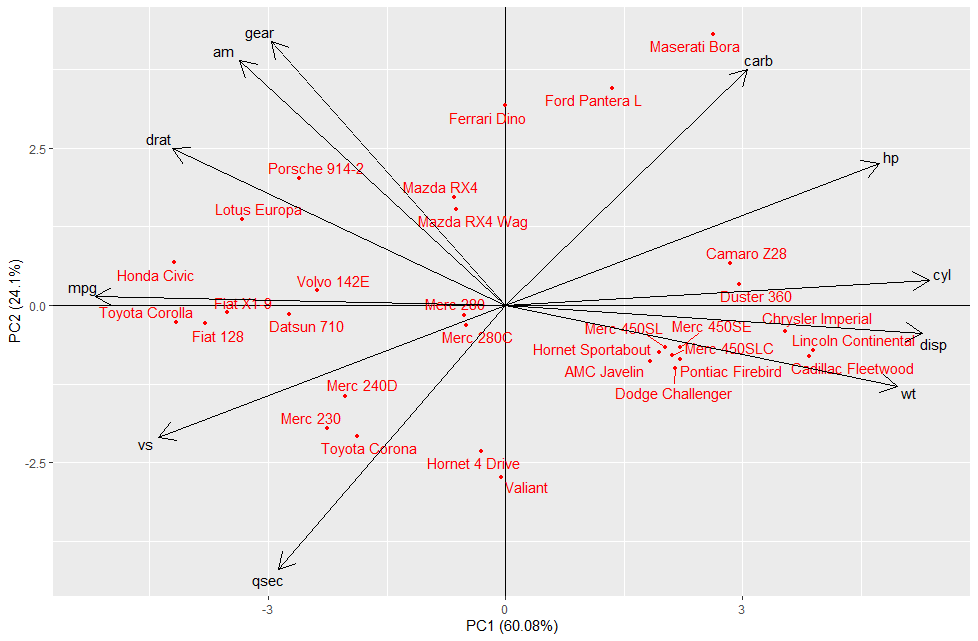
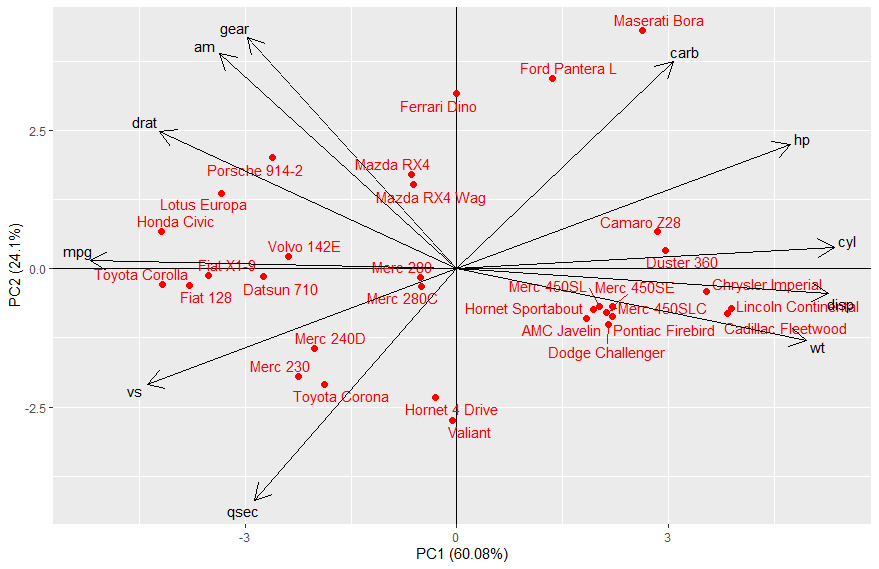
Add new parameter for Plot_Biplot

diff --git a/README.md b/README.md
@@ -54,7 +54,8 @@ devtools::install_github("mitzicubillamontilla/SparseBiplots")
 * `color`: points colors. It can be a character indicating the color of all the points or a factor to use different colors.
 * `shape`: points shapes. It can be a number to indicate the shape of all the points or a factor to indicate different shapes.
 * `size`: numeric value indicating the size of points.
-* `ind.name`: logical name indicating if prints the row names. 
+* `ind.label`: logical name indicating if prints the row names. 
+* `ind.label.size`: numeric value indicating the size of the label of points.
 * `arrow.col`: color of the arrows. 
 * `vec.name`: logical name indicating if prints the column names. 
 * `angle.vec`: logical name indicating if print the vector names with orentation of the angle of the vector. 
@@ -69,7 +70,7 @@ hj.biplot <- HJBiplot(mtcars, Transform.Data = 'scale')
 It fit the HJ-Biplot on the R data `mtcars` returning a list that contains the results of the fiting (`hj_mtcars`). To create the plot use the function `Plot_Biplot` over the list obtained. 
 
 ```R
-Plot_Biplot(hj.biplot, ind.name = TRUE)
+Plot_Biplot(hj.biplot, ind.label = TRUE)
 ```
 <img src="https://github.com/mitzicubillamontilla/SparseBiplots/blob/master/plots/HJBiplot_example.png" width="750">
 
